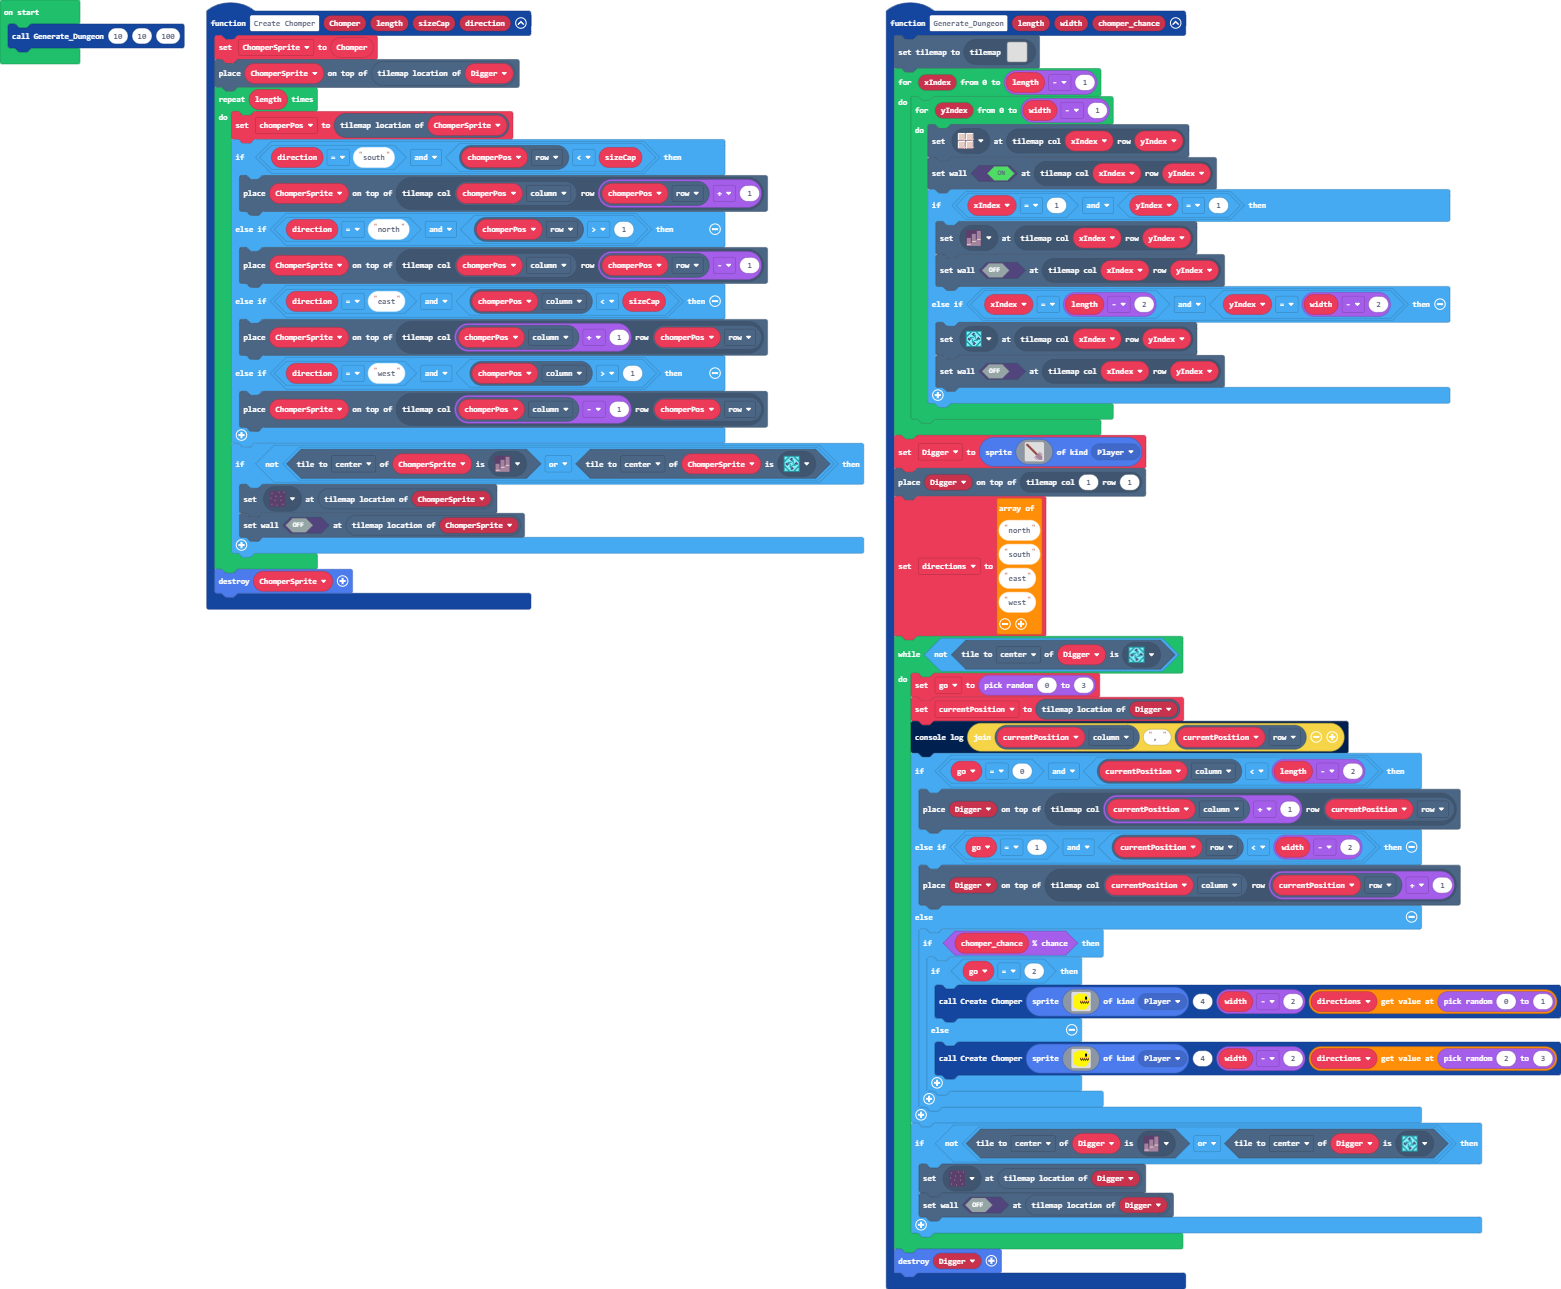
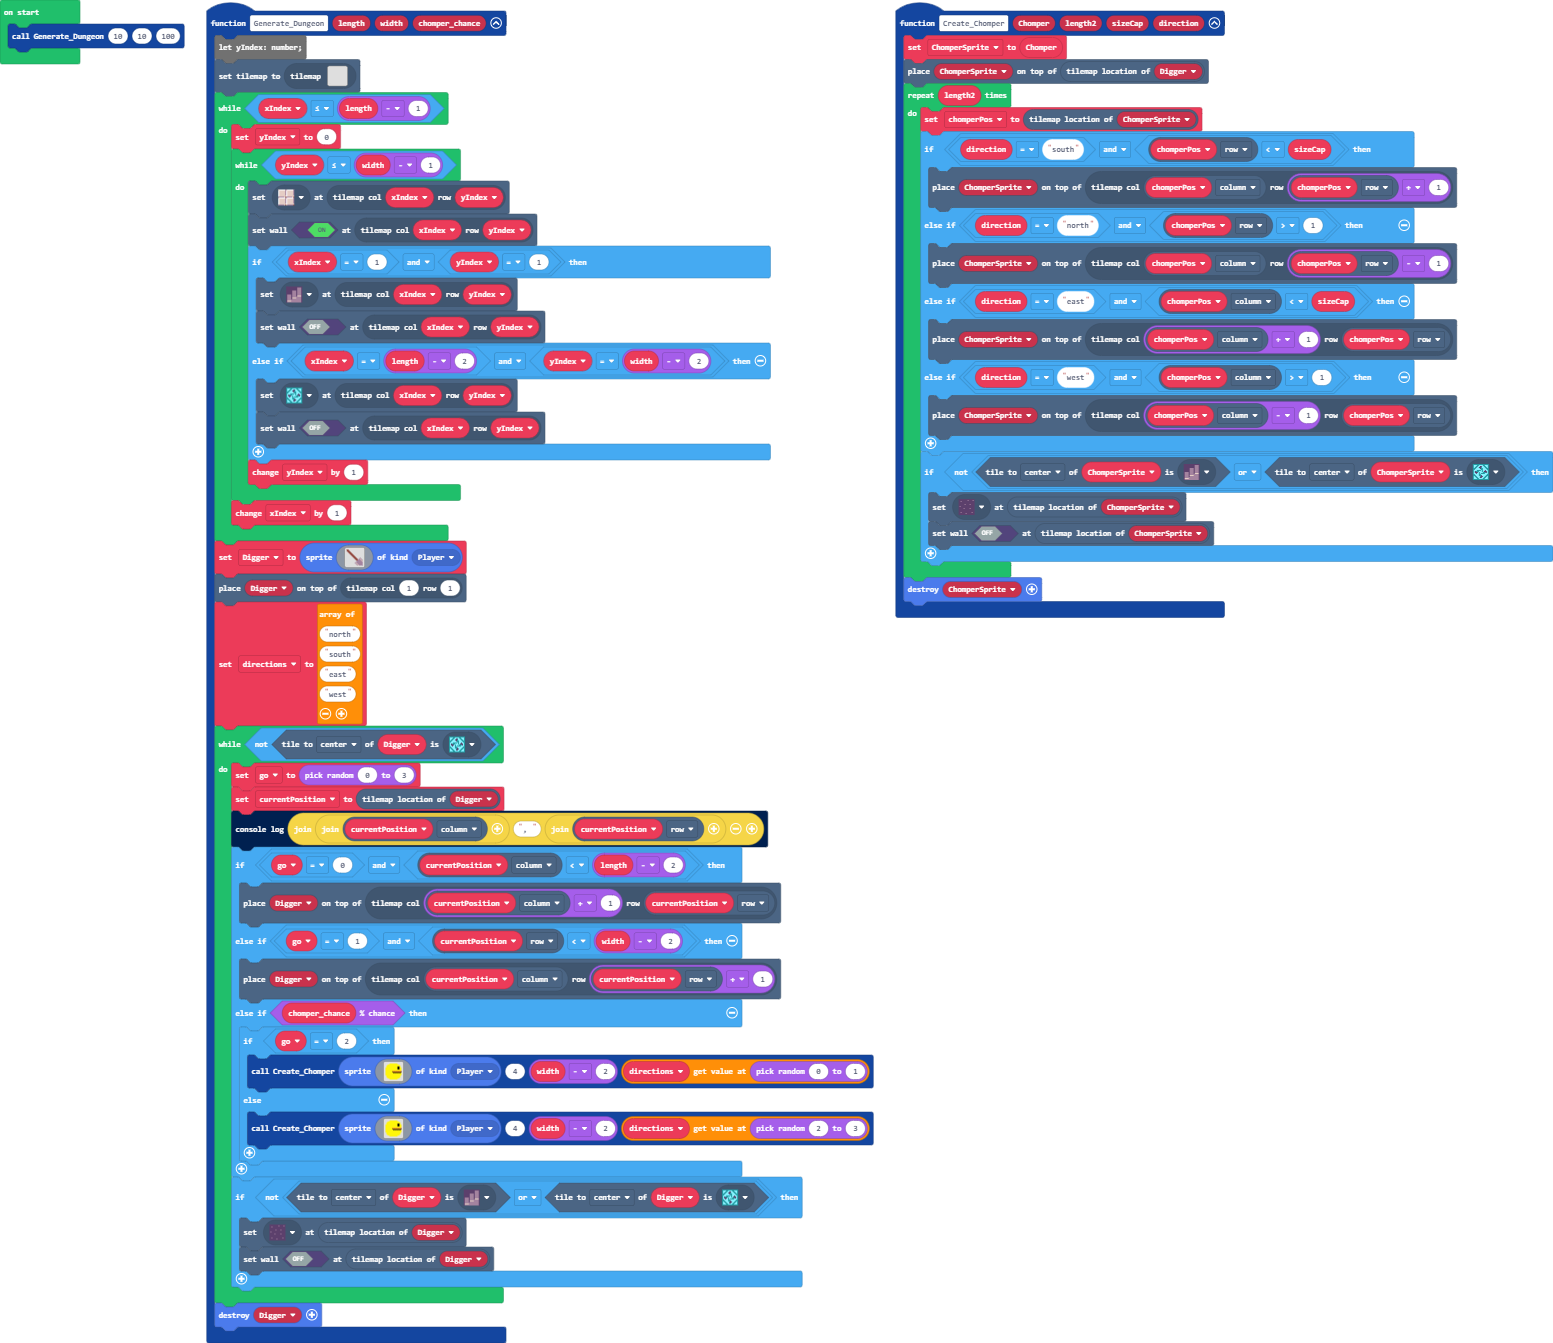
Transferred code to custom block

diff --git a/custom.ts b/custom.ts
@@ -18,17 +18,18 @@ namespace dungeons {
      */
     //% block
     
-    export function Generate_Dungeon(length: number, width: number, wall_chance: number) {
-        let currentPosition: tiles.Location = null
-        let Digger: Sprite = null
-        tiles.setCurrentTilemap(tilemap`level1`)
-        for (let xIndex = 0; xIndex <= length - 1; xIndex++) {
-            for (let yIndex = 0; yIndex <= width - 1; yIndex++) {
-                tiles.setTileAt(tiles.getTileLocation(xIndex, yIndex), sprites.dungeon.darkGroundCenter)
-                if (Math.percentChance(wall_chance) || (xIndex == 0 || xIndex == length - 1 || (yIndex == 0 || yIndex == width - 1))) {
-                    tiles.setTileAt(tiles.getTileLocation(xIndex, yIndex), sprites.dungeon.floorLight0)
-                    tiles.setWallAt(tiles.getTileLocation(xIndex, yIndex), true)
-                }
+    export function Generate_Dungeon(length: number, width: number, chomper_chance: number) {
+        let yIndex: number;
+
+        tiles.setCurrentTilemap(tilemap`
+        level1
+    `)
+        let xIndex = 0
+        while (xIndex <= length - 1) {
+            yIndex = 0
+            while (yIndex <= width - 1) {
+                tiles.setTileAt(tiles.getTileLocation(xIndex, yIndex), sprites.dungeon.floorLight0)
+                tiles.setWallAt(tiles.getTileLocation(xIndex, yIndex), true)
                 if (xIndex == 1 && yIndex == 1) {
                     tiles.setTileAt(tiles.getTileLocation(xIndex, yIndex), sprites.dungeon.stairLarge)
                     tiles.setWallAt(tiles.getTileLocation(xIndex, yIndex), false)
@@ -36,28 +37,76 @@ namespace dungeons {
                     tiles.setTileAt(tiles.getTileLocation(xIndex, yIndex), sprites.dungeon.collectibleInsignia)
                     tiles.setWallAt(tiles.getTileLocation(xIndex, yIndex), false)
                 }
+
+                yIndex += 1
             }
+            xIndex += 1
         }
-        Digger = sprites.create(assets.image`shovel`, SpriteKind.Player)
+        Digger = sprites.create(assets.image`
+        shovel
+    `, SpriteKind.Player)
         tiles.placeOnTile(Digger, tiles.getTileLocation(1, 1))
-        while (!(Digger.tileKindAt(TileDirection.Center, sprites.dungeon.collectibleInsignia))) {
+        directions = ["north", "south", "east", "west"]
+        while (!Digger.tileKindAt(TileDirection.Center, sprites.dungeon.collectibleInsignia)) {
+            go = randint(0, 3)
             currentPosition = Digger.tilemapLocation()
-            console.log("" + currentPosition.column + ", " + currentPosition.row)
-            if (Math.percentChance(50) && currentPosition.column < length - 2) {
+            console.log("" + ("" + currentPosition.column) + ", " + ("" + currentPosition.row))
+            if (go == 0 && currentPosition.column < length - 2) {
                 tiles.placeOnTile(Digger, tiles.getTileLocation(currentPosition.column + 1, currentPosition.row))
-            } else if (Math.percentChance(50) && currentPosition.row < width - 2) {
+            } else if (go == 1 && currentPosition.row < width - 2) {
                 tiles.placeOnTile(Digger, tiles.getTileLocation(currentPosition.column, currentPosition.row + 1))
-            } else if (Math.percentChance(50) && currentPosition.column > 1) {
-                tiles.placeOnTile(Digger, tiles.getTileLocation(currentPosition.column - 1, currentPosition.row))
-            } else if (currentPosition.row > 1) {
-                tiles.placeOnTile(Digger, tiles.getTileLocation(currentPosition.column, currentPosition.row - 1))
+            } else if (Math.percentChance(chomper_chance)) {
+                if (go == 2) {
+                    Create_Chomper(sprites.create(assets.image`
+                            Chomper
+                        `, SpriteKind.Player), 4, width - 2, directions[randint(0, 1)])
+                } else {
+                    Create_Chomper(sprites.create(assets.image`
+                            Chomper
+                        `, SpriteKind.Player), 4, width - 2, directions[randint(2, 3)])
+                }
+
             }
+
             if (!(Digger.tileKindAt(TileDirection.Center, sprites.dungeon.stairLarge) || Digger.tileKindAt(TileDirection.Center, sprites.dungeon.collectibleInsignia))) {
                 tiles.setTileAt(Digger.tilemapLocation(), sprites.dungeon.darkGroundCenter)
                 tiles.setWallAt(Digger.tilemapLocation(), false)
             }
+
         }
         sprites.destroy(Digger)
     }
+
+    function Create_Chomper(Chomper: Sprite, length2: number, sizeCap: number, direction: string) {
+
+        ChomperSprite = Chomper
+        tiles.placeOnTile(ChomperSprite, Digger.tilemapLocation())
+        for (let index = 0; index < length2; index++) {
+            chomperPos = ChomperSprite.tilemapLocation()
+            if (direction == "south" && chomperPos.row < sizeCap) {
+                tiles.placeOnTile(ChomperSprite, tiles.getTileLocation(chomperPos.column, chomperPos.row + 1))
+            } else if (direction == "north" && chomperPos.row > 1) {
+                tiles.placeOnTile(ChomperSprite, tiles.getTileLocation(chomperPos.column, chomperPos.row - 1))
+            } else if (direction == "east" && chomperPos.column < sizeCap) {
+                tiles.placeOnTile(ChomperSprite, tiles.getTileLocation(chomperPos.column + 1, chomperPos.row))
+            } else if (direction == "west" && chomperPos.column > 1) {
+                tiles.placeOnTile(ChomperSprite, tiles.getTileLocation(chomperPos.column - 1, chomperPos.row))
+            }
+
+            if (!(ChomperSprite.tileKindAt(TileDirection.Center, sprites.dungeon.stairLarge) || ChomperSprite.tileKindAt(TileDirection.Center, sprites.dungeon.collectibleInsignia))) {
+                tiles.setTileAt(ChomperSprite.tilemapLocation(), sprites.dungeon.darkGroundCenter)
+                tiles.setWallAt(ChomperSprite.tilemapLocation(), false)
+            }
+
+        }
+        sprites.destroy(ChomperSprite)
+    }
+
+    let chomperPos: tiles.Location = null
+    let ChomperSprite: Sprite = null
+    let currentPosition: tiles.Location = null
+    let go = 0
+    let directions: string[] = []
+    let Digger: Sprite = null
     
 }

diff --git a/main.ts b/main.ts
@@ -1,7 +1,9 @@
 function Generate_Dungeon (length: number, width: number, chomper_chance: number) {
-    tiles.setCurrentTilemap(tilemap`level1`)
-    for (let xIndex = 0; xIndex <= length - 1; xIndex++) {
-        for (let yIndex = 0; yIndex <= width - 1; yIndex++) {
+    let yIndex: number;
+tiles.setCurrentTilemap(tilemap`level1`)
+    while (xIndex <= length - 1) {
+        yIndex = 0
+        while (yIndex <= width - 1) {
             tiles.setTileAt(tiles.getTileLocation(xIndex, yIndex), sprites.dungeon.floorLight0)
             tiles.setWallAt(tiles.getTileLocation(xIndex, yIndex), true)
             if (xIndex == 1 && yIndex == 1) {
@@ -11,7 +13,9 @@ function Generate_Dungeon (length: number, width: number, chomper_chance: number
                 tiles.setTileAt(tiles.getTileLocation(xIndex, yIndex), sprites.dungeon.collectibleInsignia)
                 tiles.setWallAt(tiles.getTileLocation(xIndex, yIndex), false)
             }
+            yIndex += 1
         }
+        xIndex += 1
     }
     Digger = sprites.create(assets.image`shovel`, SpriteKind.Player)
     tiles.placeOnTile(Digger, tiles.getTileLocation(1, 1))
@@ -24,18 +28,16 @@ function Generate_Dungeon (length: number, width: number, chomper_chance: number
     while (!(Digger.tileKindAt(TileDirection.Center, sprites.dungeon.collectibleInsignia))) {
         go = randint(0, 3)
         currentPosition = Digger.tilemapLocation()
-        console.log("" + currentPosition.column + ", " + currentPosition.row)
+        console.log("" + currentPosition.column + ", " + ("" + currentPosition.row))
         if (go == 0 && currentPosition.column < length - 2) {
             tiles.placeOnTile(Digger, tiles.getTileLocation(currentPosition.column + 1, currentPosition.row))
         } else if (go == 1 && currentPosition.row < width - 2) {
             tiles.placeOnTile(Digger, tiles.getTileLocation(currentPosition.column, currentPosition.row + 1))
-        } else {
-            if (Math.percentChance(chomper_chance)) {
-                if (go == 2) {
-                    Create_Chomper(sprites.create(assets.image`Chomper`, SpriteKind.Player), 4, width - 2, directions[randint(0, 1)])
-                } else {
-                    Create_Chomper(sprites.create(assets.image`Chomper`, SpriteKind.Player), 4, width - 2, directions[randint(2, 3)])
-                }
+        } else if (Math.percentChance(chomper_chance)) {
+            if (go == 2) {
+                Create_Chomper(sprites.create(assets.image`Chomper`, SpriteKind.Player), 4, width - 2, directions[randint(0, 1)])
+            } else {
+                Create_Chomper(sprites.create(assets.image`Chomper`, SpriteKind.Player), 4, width - 2, directions[randint(2, 3)])
             }
         }
         if (!(Digger.tileKindAt(TileDirection.Center, sprites.dungeon.stairLarge) || Digger.tileKindAt(TileDirection.Center, sprites.dungeon.collectibleInsignia))) {
@@ -45,10 +47,10 @@ function Generate_Dungeon (length: number, width: number, chomper_chance: number
     }
     sprites.destroy(Digger)
 }
-function Create_Chomper (Chomper: Sprite, length: number, sizeCap: number, direction: string) {
+function Create_Chomper (Chomper: Sprite, length2: number, sizeCap: number, direction: string) {
     ChomperSprite = Chomper
     tiles.placeOnTile(ChomperSprite, Digger.tilemapLocation())
-    for (let index = 0; index < length; index++) {
+    for (let index = 0; index < length2; index++) {
         chomperPos = ChomperSprite.tilemapLocation()
         if (direction == "south" && chomperPos.row < sizeCap) {
             tiles.placeOnTile(ChomperSprite, tiles.getTileLocation(chomperPos.column, chomperPos.row + 1))
@@ -72,4 +74,5 @@ let currentPosition: tiles.Location = null
 let go = 0
 let directions: string[] = []
 let Digger: Sprite = null
+let xIndex = 0
 Generate_Dungeon(10, 10, 100)

diff --git a/main.py b/main.py
@@ -1,0 +1,88 @@
+def Generate_Dungeon(length: number, width: number, chomper_chance: number):
+    global Digger, directions, go, currentPosition
+    tiles.set_current_tilemap(tilemap("""
+        level1
+    """))
+    xIndex = 0
+    while xIndex <= length - 1:
+        yIndex = 0
+        while yIndex <= width - 1:
+            tiles.set_tile_at(tiles.get_tile_location(xIndex, yIndex),
+                sprites.dungeon.floor_light0)
+            tiles.set_wall_at(tiles.get_tile_location(xIndex, yIndex), True)
+            if xIndex == 1 and yIndex == 1:
+                tiles.set_tile_at(tiles.get_tile_location(xIndex, yIndex),
+                    sprites.dungeon.stair_large)
+                tiles.set_wall_at(tiles.get_tile_location(xIndex, yIndex), False)
+            elif xIndex == length - 2 and yIndex == width - 2:
+                tiles.set_tile_at(tiles.get_tile_location(xIndex, yIndex),
+                    sprites.dungeon.collectible_insignia)
+                tiles.set_wall_at(tiles.get_tile_location(xIndex, yIndex), False)
+            yIndex += 1
+        xIndex += 1
+    Digger = sprites.create(assets.image("""
+        shovel
+    """), SpriteKind.player)
+    tiles.place_on_tile(Digger, tiles.get_tile_location(1, 1))
+    directions = ["north", "south", "east", "west"]
+    while not (Digger.tile_kind_at(TileDirection.CENTER, sprites.dungeon.collectible_insignia)):
+        go = randint(0, 3)
+        currentPosition = Digger.tilemap_location()
+        print("" + str(currentPosition.column) + ", " + str(currentPosition.row))
+        if go == 0 and currentPosition.column < length - 2:
+            tiles.place_on_tile(Digger,
+                tiles.get_tile_location(currentPosition.column + 1, currentPosition.row))
+        elif go == 1 and currentPosition.row < width - 2:
+            tiles.place_on_tile(Digger,
+                tiles.get_tile_location(currentPosition.column, currentPosition.row + 1))
+        else:
+            if Math.percent_chance(chomper_chance):
+                if go == 2:
+                    Create_Chomper(sprites.create(assets.image("""
+                            Chomper
+                        """), SpriteKind.player),
+                        4,
+                        width - 2,
+                        directions[randint(0, 1)])
+                else:
+                    Create_Chomper(sprites.create(assets.image("""
+                            Chomper
+                        """), SpriteKind.player),
+                        4,
+                        width - 2,
+                        directions[randint(2, 3)])
+        if not (Digger.tile_kind_at(TileDirection.CENTER, sprites.dungeon.stair_large) or Digger.tile_kind_at(TileDirection.CENTER, sprites.dungeon.collectible_insignia)):
+            tiles.set_tile_at(Digger.tilemap_location(),
+                sprites.dungeon.dark_ground_center)
+            tiles.set_wall_at(Digger.tilemap_location(), False)
+    sprites.destroy(Digger)
+def Create_Chomper(Chomper: Sprite, length2: number, sizeCap: number, direction: str):
+    global ChomperSprite, chomperPos
+    ChomperSprite = Chomper
+    tiles.place_on_tile(ChomperSprite, Digger.tilemap_location())
+    for index in range(length2):
+        chomperPos = ChomperSprite.tilemap_location()
+        if direction == "south" and chomperPos.row < sizeCap:
+            tiles.place_on_tile(ChomperSprite,
+                tiles.get_tile_location(chomperPos.column, chomperPos.row + 1))
+        elif direction == "north" and chomperPos.row > 1:
+            tiles.place_on_tile(ChomperSprite,
+                tiles.get_tile_location(chomperPos.column, chomperPos.row - 1))
+        elif direction == "east" and chomperPos.column < sizeCap:
+            tiles.place_on_tile(ChomperSprite,
+                tiles.get_tile_location(chomperPos.column + 1, chomperPos.row))
+        elif direction == "west" and chomperPos.column > 1:
+            tiles.place_on_tile(ChomperSprite,
+                tiles.get_tile_location(chomperPos.column - 1, chomperPos.row))
+        if not (ChomperSprite.tile_kind_at(TileDirection.CENTER, sprites.dungeon.stair_large) or ChomperSprite.tile_kind_at(TileDirection.CENTER, sprites.dungeon.collectible_insignia)):
+            tiles.set_tile_at(ChomperSprite.tilemap_location(),
+                sprites.dungeon.dark_ground_center)
+            tiles.set_wall_at(ChomperSprite.tilemap_location(), False)
+    sprites.destroy(ChomperSprite)
+chomperPos: tiles.Location = None
+ChomperSprite: Sprite = None
+currentPosition: tiles.Location = None
+go = 0
+directions: List[str] = []
+Digger: Sprite = None
+Generate_Dungeon(10, 10, 100)
